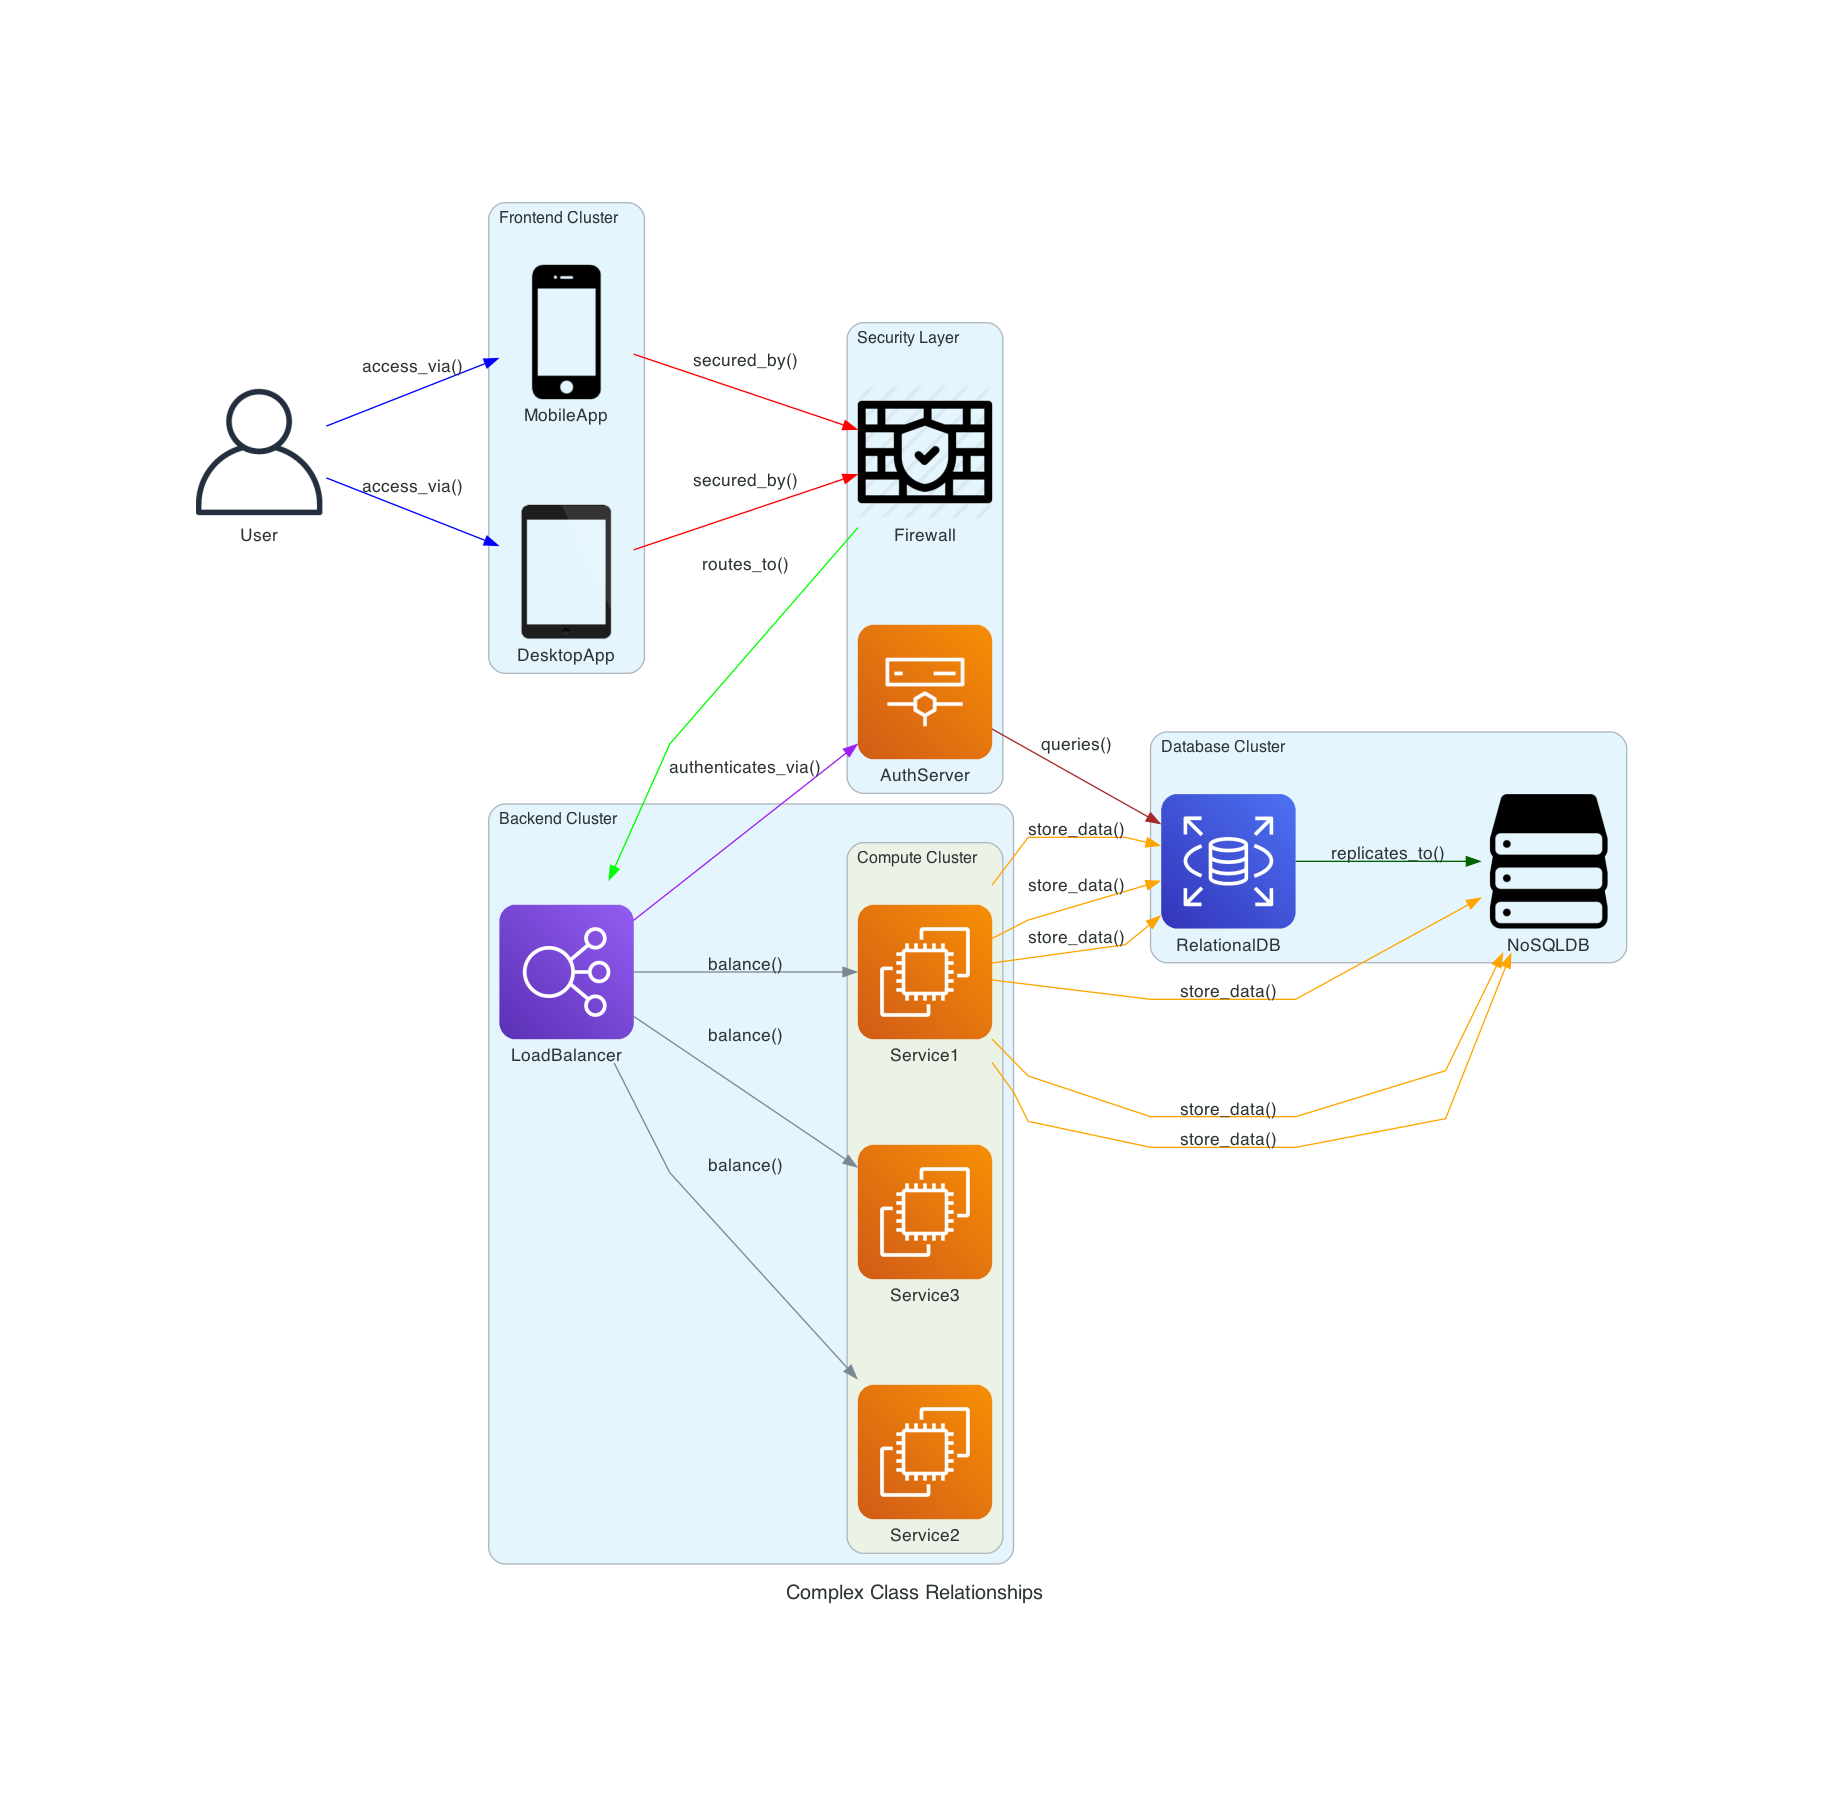
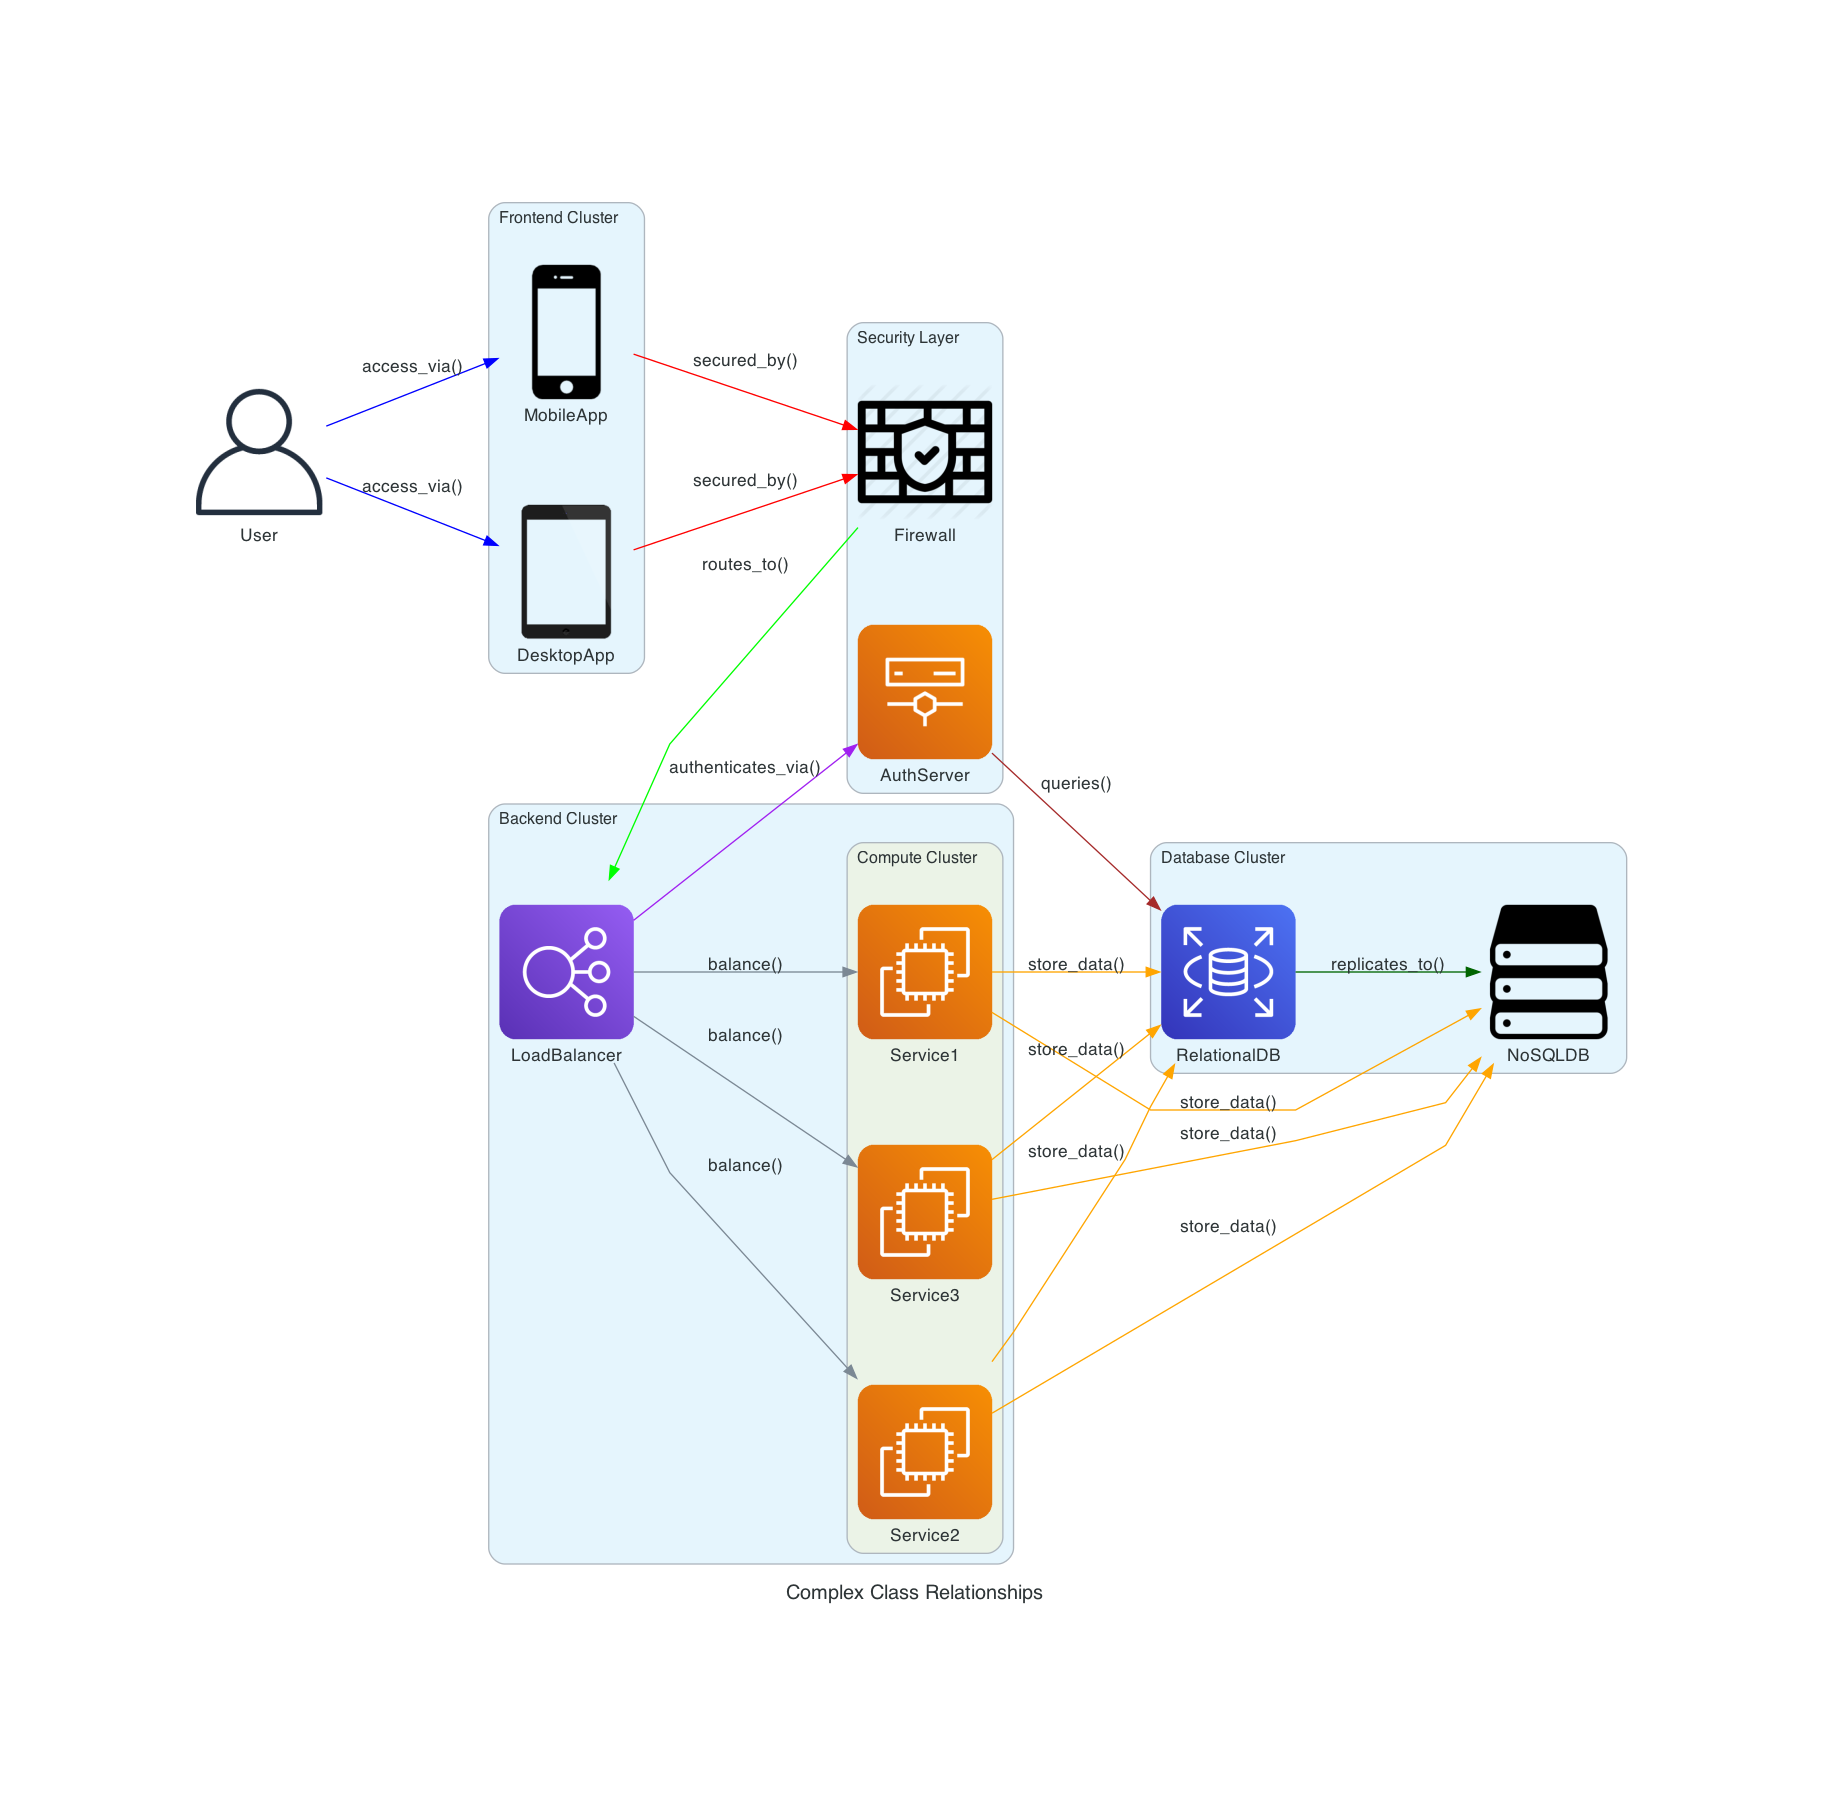
Working Diagram Code relation extraction

Changed region(s): [[0.561, 0.4049, 0.9038, 0.6541]]

diff --git a/main.py b/main.py
@@ -56,6 +56,8 @@ class Visitor(ast.NodeVisitor):
                 right_class = []
 
             for left in left_class:
+                if left not in self.variable_to_class:
+                    continue
                 _left = self.variable_to_class[left]
                 for right in right_class:
                     _right = self.variable_to_class[right]
@@ -63,13 +65,64 @@ class Visitor(ast.NodeVisitor):
                         self.all_connections.append([_left, method, _right])
                     else:
                         self.all_connections.append([_right, method, _left])
-            #         self.all_connections.append([left, method, right])
-            # print('Left', left_class)
-            # print('Node.op and method', ast.dump(node.op, indent=4), method)
-            # print('Right', right_class)
-            # print("===========")
 
         self.generic_visit(node)
+
+    def visit_For(self, node):
+        """
+        Visit a For loop node and extract connections.
+        """
+        # Extract the loop variable (target)
+        if isinstance(node.target, ast.Name):
+            loop_var = node.target.id
+        else:
+            return  # Unsupported target type
+
+        # Extract iteration elements (iter)
+        iteration_elements = []
+        if isinstance(node.iter, ast.List):
+            iteration_elements = [
+                elt.id for elt in node.iter.elts if isinstance(elt, ast.Name)
+            ]
+
+        # Process the loop body
+        for stmt in node.body:
+            if isinstance(stmt, ast.Expr) and isinstance(stmt.value, ast.BinOp):
+                self.process_binop_in_for(stmt.value, loop_var, iteration_elements)
+
+        # Continue visiting other nodes
+        self.generic_visit(node)
+
+    def process_binop_in_for(self, node, loop_var, iteration_elements):
+        left_side = []
+        if isinstance(node.left, ast.BinOp) and isinstance(node.left.left, ast.Name):
+            if node.left.left.id == loop_var:
+                left_side = iteration_elements
+
+        method = None
+        if isinstance(node.left.right, ast.Call) and node.left.right.func.id == "Edge":
+            method = next(
+                (kw.value.value for kw in node.left.right.keywords if kw.arg == "label"),
+                None,
+            )
+
+        right_side = []
+        if isinstance(node.right, ast.List):
+            right_side = [
+                elt.id for elt in node.right.elts if isinstance(elt, ast.Name)
+            ]
+
+        # Form connections
+        if left_side and method and right_side:
+            for left in left_side:
+                for right in right_side:
+                    _left = self.variable_to_class[left]
+                    _right = self.variable_to_class[right]
+                    # if print("Node", node.left.op)
+                    if isinstance(node.left.op, ast.RShift):
+                        self.all_connections.append([_left, method, _right])
+                    else:
+                        self.all_connections.append([_right, method, _left])
 
     def get_results(self):
         return self.all_classes, self.variable_to_class, self.all_connections
@@ -87,19 +140,12 @@ def resolve_left(node):
         return resolve_left(node.left)
     return []
 
-
 def analyze_diagram(diagram):
     tree = ast.parse(diagram)
     visitor = Visitor()
     visitor.visit(tree)
 
     all_classes, variable_to_class, all_connections = visitor.get_results()
-
-    # Print results for debugging
-    print("All Classes:", all_classes)
-    print("Variable to Class Mapping:", variable_to_class)
-    print("All Connections:")
-    pprint(all_connections)
 
     return all_classes, all_connections
 
@@ -190,6 +236,10 @@ def analyze_code(code):
     return all_classes, all_connections
 
 all_diagram_classes, all_diagram_connections = analyze_diagram(diagram)
+pprint("All Classes:")
+pprint(all_diagram_classes)
+print("All Connections:")
+pprint(all_diagram_connections)
 # print(all_diagram_classes)
 # pprint(all_diagram_connections)
 #

diff --git a/classes/classes.py b/classes/classes.py
@@ -1,35 +1,113 @@
-class ClassA:
+class User:
     def __init__(self, name):
         self.name = name
 
-    def greet(self):
-        return f"Hello from {self.name}!"
-
-    def interact_with_b(self, obj_b):
-        return f"{self.name} says: {obj_b.respond_to_a()}"
+    def access_via(self, devices):
+        for device in devices:
+            print(f"{self.name} accesses via {device.name}")
 
 
-class ClassB:
-    def __init__(self, id_number, obj_c):
-        self.id_number = id_number
-        self.obj_c = obj_c
-
-    def respond_to_a(self):
-        return f"ClassB (ID: {self.id_number}) responding to ClassA"
-
-    def use_class_c(self):
-        return self.obj_c.provide_data()
+class MobileApp:
+    def __init__(self, name):
+        self.name = name
 
 
-class ClassC:
-    def __init__(self, dataset):
-        self.dataset = dataset
+class DesktopApp:
+    def __init__(self, name):
+        self.name = name
 
-    def provide_data(self):
-        return f"ClassC provides dataset: {self.dataset}"
 
-    def interact_with_a(self, obj_a):
-        return f"ClassC interacting with {obj_a.name}"
+class Firewall:
+    def __init__(self, name):
+        self.name = name
 
-    def interact_with_b(self, obj_b):
-        return f"ClassC sends data to ClassB (ID: {obj_b.id_number}): {self.dataset}"
+    def secured_by(self, devices):
+        for device in devices:
+            print(f"{device.name} is secured by {self.name}")
+
+    def routes_to(self, target):
+        print(f"{self.name} routes to {target.name}")
+
+
+class LoadBalancer:
+    def __init__(self, name):
+        self.name = name
+
+    def balance(self, services):
+        for service in services:
+            print(f"{self.name} balances {service.name}")
+
+    def authenticates_via(self, server):
+        print(f"{self.name} authenticates via {server.name}")
+
+
+class Service:
+    def __init__(self, name):
+        self.name = name
+
+    def store_data(self, databases):
+        for db in databases:
+            print(f"{self.name} stores data in {db.name}")
+
+
+class RelationalDB:
+    def __init__(self, name):
+        self.name = name
+
+    def replicates_to(self, target_db):
+        print(f"{self.name} replicates to {target_db.name}")
+
+
+class NoSQLDB:
+    def __init__(self, name):
+        self.name = name
+
+
+class AuthServer:
+    def __init__(self, name):
+        self.name = name
+
+    def queries(self, database):
+        print(f"{self.name} queries {database.name}")
+
+
+# Instantiating objects
+user = User("User")
+
+# Frontend Cluster
+mobile = MobileApp("MobileApp")
+desktop = DesktopApp("DesktopApp")
+
+# Backend Cluster
+load_balancer = LoadBalancer("LoadBalancer")
+
+# Compute Cluster
+service1 = Service("Service1")
+service2 = Service("Service2")
+service3 = Service("Service3")
+
+# Database Cluster
+relational_db = RelationalDB("RelationalDB")
+nosql_db = NoSQLDB("NoSQLDB")
+
+# Security Layer
+firewall = Firewall("Firewall")
+auth_server = AuthServer("AuthServer")
+
+# Simulated relationships
+devices = [mobile, desktop]
+services = [service1, service2, service3]
+databases = [relational_db, nosql_db]
+
+# Relationships
+user.access_via(devices)
+firewall.secured_by(devices)
+firewall.routes_to(load_balancer)
+load_balancer.balance(services)
+load_balancer.authenticates_via(auth_server)
+
+for service in services:
+    service.store_data(databases)
+
+auth_server.queries(relational_db)
+relational_db.replicates_to(nosql_db)

diff --git a/diagrams/diagram.py b/diagrams/diagram.py
@@ -1,51 +1,54 @@
 from diagrams import Diagram, Cluster, Edge
-from diagrams.aws.compute import EC2
-from diagrams.aws.database import RDS
-from diagrams.aws.network import ELB
-from diagrams.onprem.client import User
-from diagrams.onprem.database import PostgreSQL
-from diagrams.generic.storage import Storage
-from diagrams.aws.media import ElementalServer as Server
 from diagrams.generic.network import Firewall
 from diagrams.generic.device import Mobile, Tablet
+from diagrams.onprem.client import User
+from diagrams.generic.compute import Rack
+from diagrams.generic.database import SQL
+from diagrams.generic.storage import Storage
+from diagrams.onprem.compute import Server
 
 graph_attr = {
-    "splines":"polyline",
+    "splines": "polyline",
 }
 
-with Diagram("Complex Class Relationships", direction="LR", show=False, graph_attr=graph_attr):
+with Diagram("Class Relationships and Methods", direction="LR", show=False, graph_attr=graph_attr):
+    # User class
     user = User("User")
 
-    with Cluster("Frontend Cluster"):
-        mobile = Mobile("MobileApp")
-        desktop = Tablet("DesktopApp")
+    # Frontend Cluster: Classes representing frontend interfaces
+    with Cluster("Frontend Classes"):
+        mobile_app = Mobile("MobileApp")
+        desktop_app = Tablet("DesktopApp")
 
-        # frontend_services = [mobile, desktop]
+    # Backend Cluster: Core processing classes
+    with Cluster("Backend Classes"):
+        load_balancer = Rack("LoadBalancer")
 
-    with Cluster("Backend Cluster"):
-        load_balancer = ELB("LoadBalancer")
-
-        with Cluster("Compute Cluster"):
-            service1 = EC2("Service1")
-            service2 = EC2("Service2")
-            service3 = EC2("Service3")
+        with Cluster("Service Classes"):
+            service1 = Server("Service1")
+            service2 = Server("Service2")
+            service3 = Server("Service3")
 
         load_balancer >> Edge(label="balance()") >> [service1, service2, service3]
 
-    with Cluster("Database Cluster"):
-        relational_db = RDS("RelationalDB")
+    # Database Classes
+    with Cluster("Database Classes"):
+        relational_db = SQL("RelationalDB")
         nosql_db = Storage("NoSQLDB")
 
-    with Cluster("Security Layer"):
+    # Security Layer: Security-related classes
+    with Cluster("Security Classes"):
         firewall = Firewall("Firewall")
         auth_server = Server("AuthServer")
 
-    user >> Edge(label="access_via()", color="blue") >> [mobile, desktop]
-    [mobile, desktop] >> Edge(label="secured_by()", color="red") >> firewall >> Edge(label="routes_to()", color="green") >> load_balancer
+    # Class Relationships and Methods
+    user >> Edge(label="access_via()", color="blue") >> [mobile_app, desktop_app]
+    [mobile_app, desktop_app] >> Edge(label="secured_by()", color="red") >> firewall
+    firewall >> Edge(label="routes_to()", color="green") >> load_balancer
     load_balancer >> Edge(label="authenticates_via()", color="purple") >> auth_server
 
     for service in [service1, service2, service3]:
-        service1 >> Edge(label="store_data()", color="orange") >> [relational_db, nosql_db]
+        service >> Edge(label="store_data()", color="orange") >> [relational_db, nosql_db]
 
     auth_server >> Edge(label="queries()", color="brown") >> relational_db
     relational_db >> Edge(label="replicates_to()", color="darkgreen") >> nosql_db

diff --git a/classes/classes1.py b/classes/classes1.py
@@ -1,0 +1,35 @@
+class ClassA:
+    def __init__(self, name):
+        self.name = name
+
+    def greet(self):
+        return f"Hello from {self.name}!"
+
+    def interact_with_b(self, obj_b):
+        return f"{self.name} says: {obj_b.respond_to_a()}"
+
+
+class ClassB:
+    def __init__(self, id_number, obj_c):
+        self.id_number = id_number
+        self.obj_c = obj_c
+
+    def respond_to_a(self):
+        return f"ClassB (ID: {self.id_number}) responding to ClassA"
+
+    def use_class_c(self):
+        return self.obj_c.provide_data()
+
+
+class ClassC:
+    def __init__(self, dataset):
+        self.dataset = dataset
+
+    def provide_data(self):
+        return f"ClassC provides dataset: {self.dataset}"
+
+    def interact_with_a(self, obj_a):
+        return f"ClassC interacting with {obj_a.name}"
+
+    def interact_with_b(self, obj_b):
+        return f"ClassC sends data to ClassB (ID: {obj_b.id_number}): {self.dataset}"

diff --git a/test.py b/test.py
@@ -1,7 +1,7 @@
 import ast
 from pprint import pprint
 
-with open("classes/classes.py", "r") as f:
+with open("classes/classes1.py", "r") as f:
     code = f.read()
 
 with open('diagrams/diagram.py', 'r') as f:
